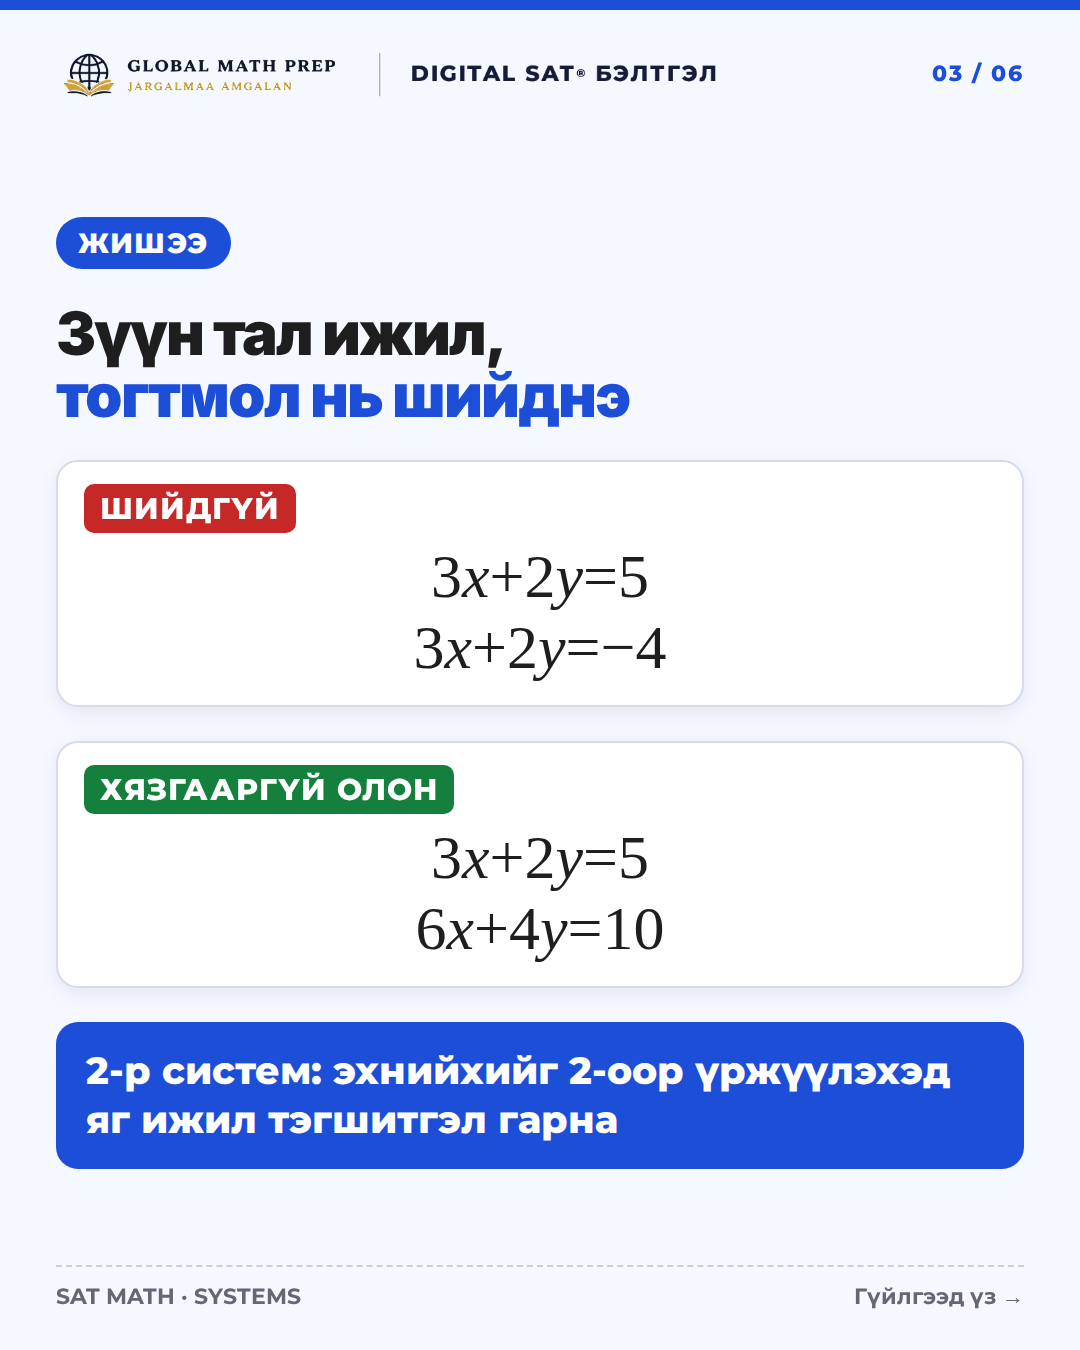
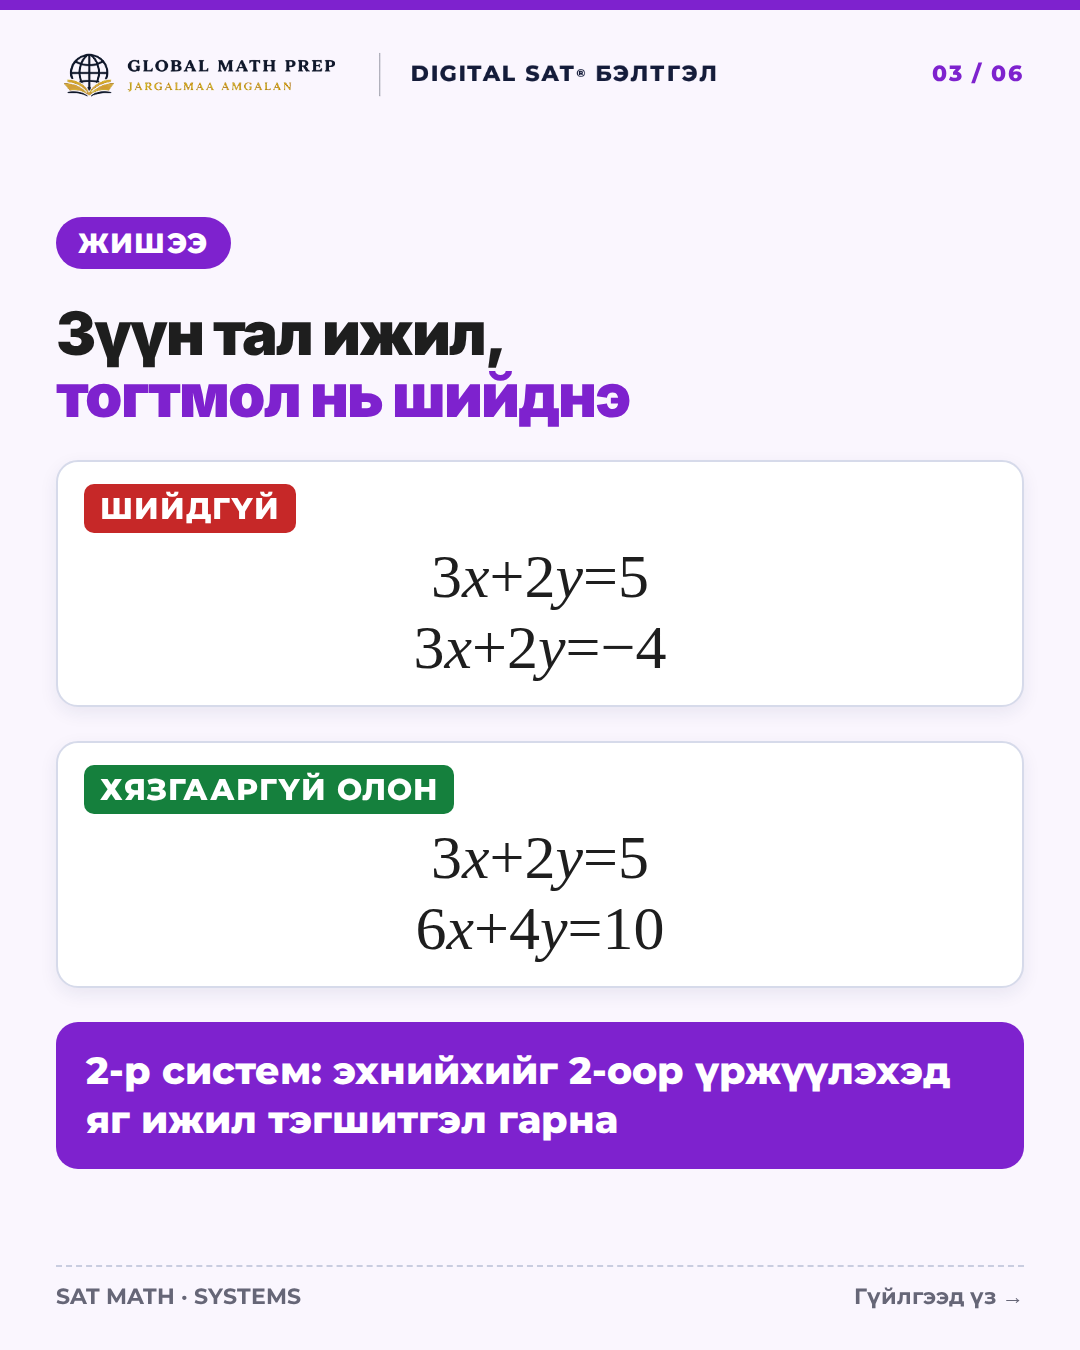
Systems post: purple colour
Claude-Session: https://claude.ai/code/session_01FLPzALAJUoveurDTsvCi1K

diff --git a/tools/v2/gen42.py b/tools/v2/gen42.py
@@ -5,7 +5,7 @@ then the constant decides) and Worked Example 1 (-ax-12y=15, 4x+3y=-2, no soluti
 import sys
 import gen29, gen30, gen31, gen32, gen33
 
-AC, SOFT, TINT = '#1d4ed8', '#dbe5fd', '#f5f8ff'   # royal blue (not used by recent posts)
+AC, SOFT, TINT = '#7e22ce', '#f0e4fb', '#faf6fe'   # purple (not used by recent posts)
 
 EXTRA = gen33.EXTRA.replace('#be185d', AC) + """
 .lead{font-size:44px!important;line-height:1.35!important}
